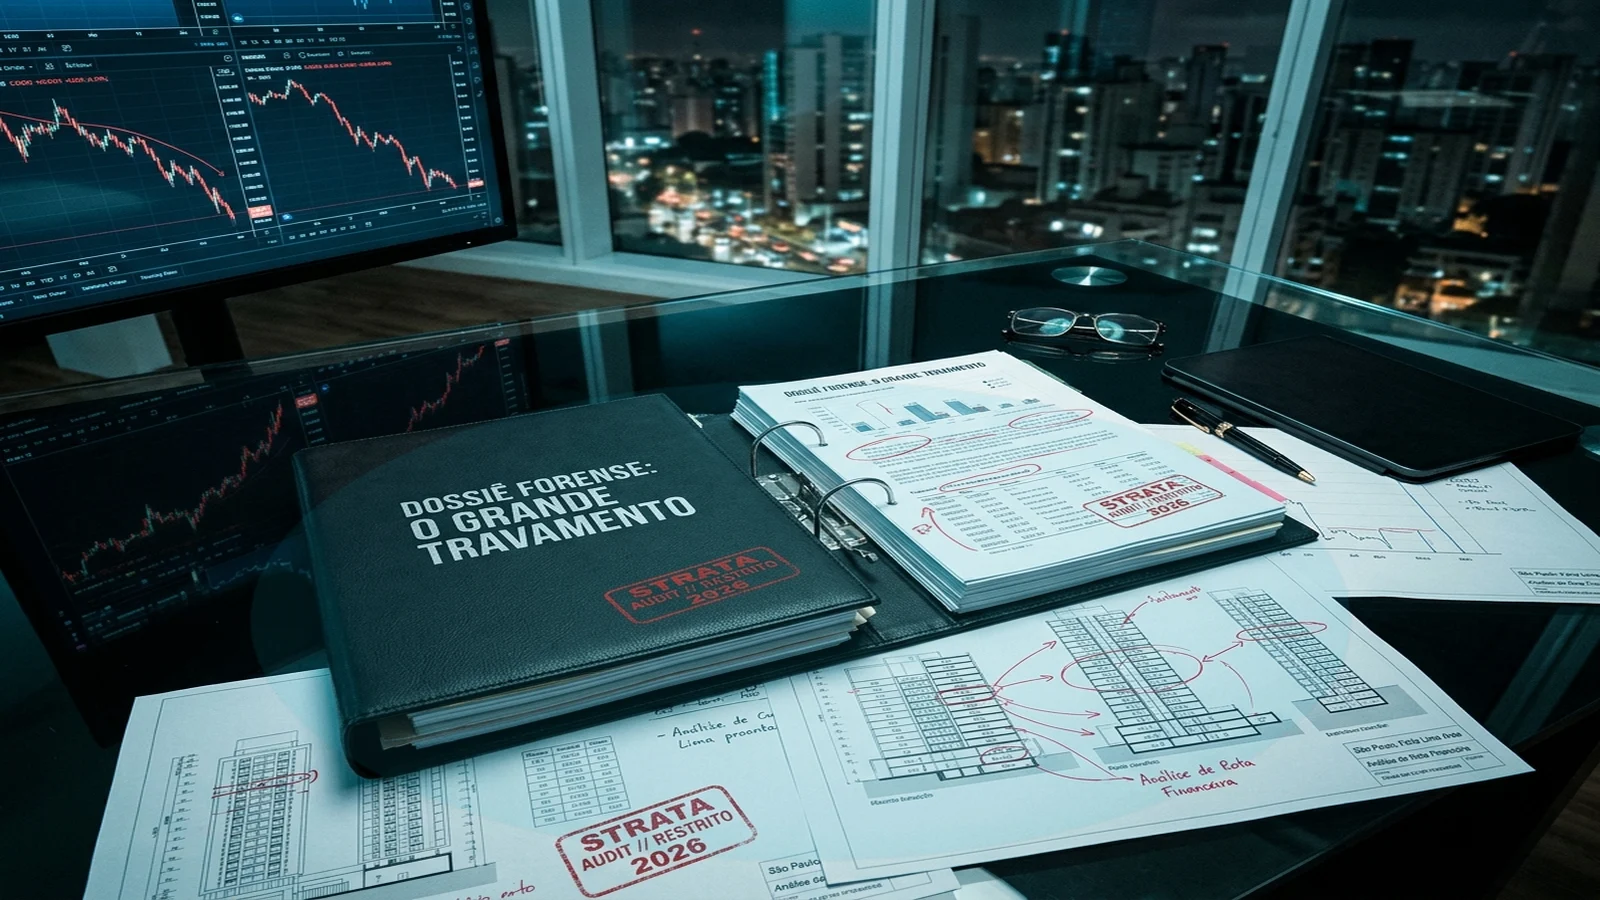
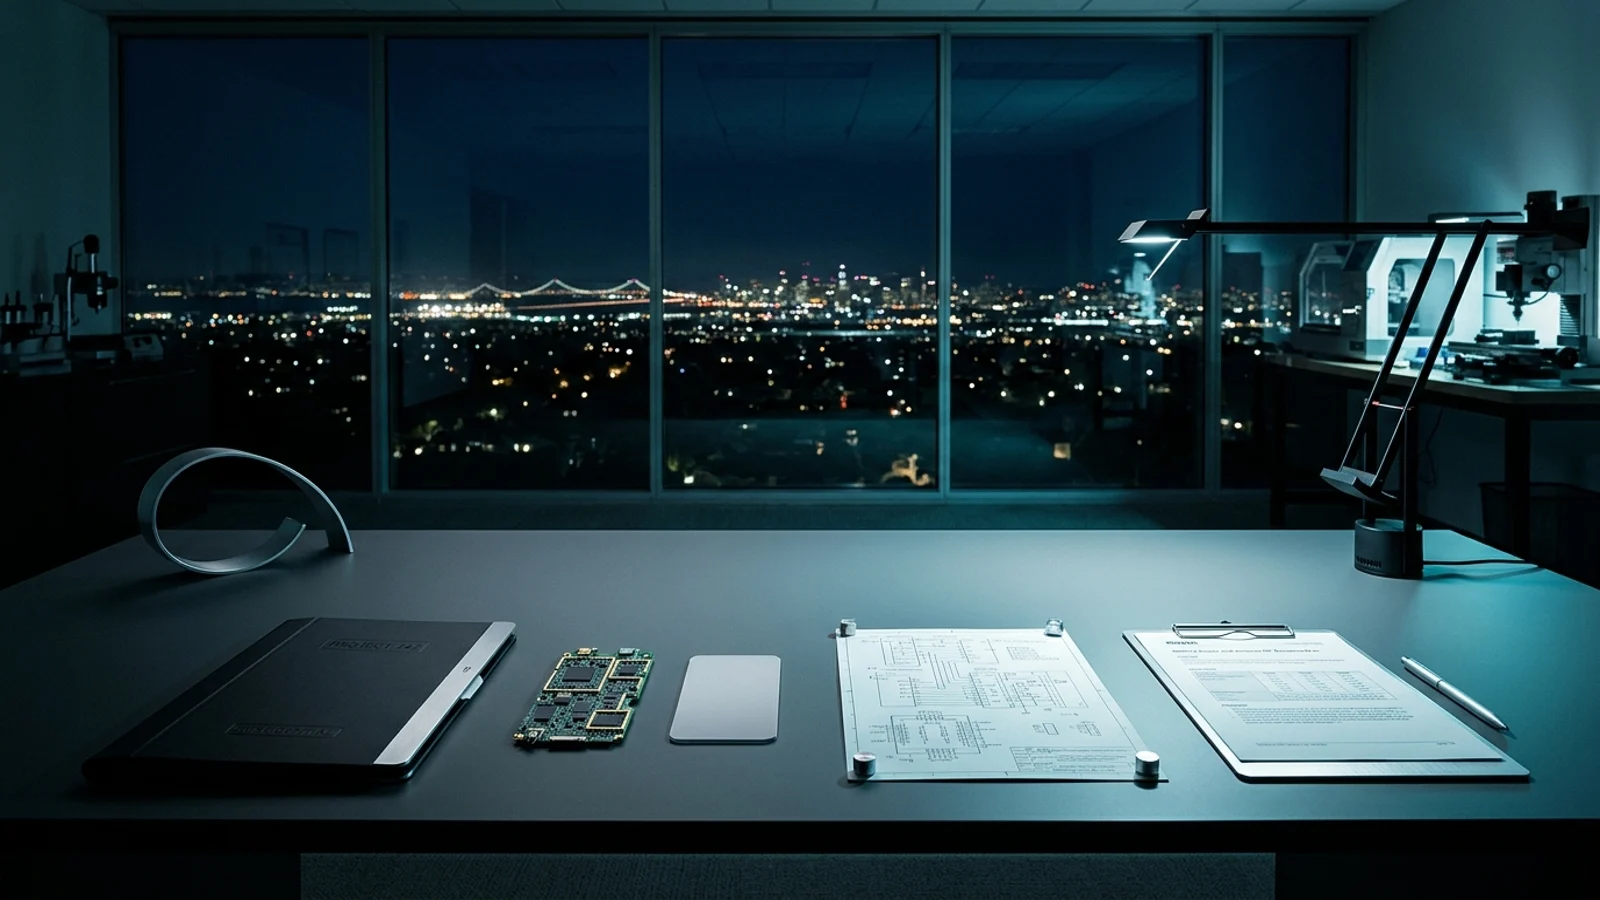
fix(investigation-3d): replace 2D shapes in Turing/Jobs with photorealistic 3D scenes, remove duplicate Stage 2 pills, add high-contrast line badge, show Stage 4 dilemma prompt, and unify z-50 header

diff --git a/src/components/investigation/CrossExamination3DStage.tsx b/src/components/investigation/CrossExamination3DStage.tsx
@@ -98,7 +98,7 @@ export const CrossExamination3DStage: React.FC<CrossExamination3DStageProps> = (
     const t = setTimeout(() => {
       setCamRotX(0);
       setCamRotY(0);
-      setCamScale(1.03);
+      setCamScale(1.06);
     }, 60);
     return () => clearTimeout(t);
   }, [selectedCase.id]);
@@ -186,7 +186,7 @@ export const CrossExamination3DStage: React.FC<CrossExamination3DStageProps> = (
       onPointerDown={handlePointerDown}
       onPointerMove={handlePointerMove}
       onPointerUp={handlePointerUp}
-      className="fixed inset-0 z-40 w-screen h-[100dvh] overflow-hidden bg-[#04060B] select-none font-sans flex flex-col justify-between"
+      className="fixed inset-0 z-50 w-screen h-[100dvh] overflow-hidden bg-[#04060B] select-none font-sans flex flex-col justify-between"
       style={{ perspective: '1300px' }}
     >
       {/* =====================================================================
@@ -397,18 +397,10 @@ export const CrossExamination3DStage: React.FC<CrossExamination3DStageProps> = (
           })()}
         </svg>
 
-        {/* Micro-rótulos de Telemetria nos Feixes */}
-        <div
-          style={{ left: '31%', top: '46%', transform: 'rotate(-14deg)' }}
-          className="hidden sm:block absolute z-30 pointer-events-none text-[8px] font-mono uppercase tracking-[0.22em] text-amber-200/85 drop-shadow-[0_0_6px_rgba(251,191,36,0.9)]"
-        >
-          VÍNCULO TÁTICO // {eraTheme.eraName.toUpperCase()}
-        </div>
-        <div
-          style={{ left: '46%', top: '42%', transform: 'rotate(-4deg)' }}
-          className="hidden sm:block absolute z-30 pointer-events-none text-[8px] font-mono uppercase tracking-[0.22em] text-cyan-200/85 drop-shadow-[0_0_6px_rgba(34,211,238,0.9)]"
-        >
-          CRUZAMENTO FORENSE DE EVIDÊNCIAS
+        {/* Badge Horizontal de Alto Contraste sobre a Linha de Conexão (Fix #3) */}
+        <div className="hidden sm:flex absolute left-1/2 -translate-x-1/2 top-[29%] z-30 pointer-events-none items-center gap-2 bg-[#060A12]/90 text-amber-300 px-3.5 py-1 rounded-full border border-amber-500/40 shadow-lg text-[10px] font-mono uppercase tracking-wider">
+          <span className="w-2 h-2 rounded-full bg-amber-400 animate-pulse" />
+          <span>VÍNCULO TÁTICO // {eraTheme.eraName.toUpperCase()}</span>
         </div>
 
         {/* ===================================================================
@@ -526,29 +518,7 @@ export const CrossExamination3DStage: React.FC<CrossExamination3DStageProps> = (
                 />
               </button>
 
-              {/* Plaqueta Discreta na Borda da Mesa (PAPIRI-01 / DOC-01 / etc.) */}
-              <button
-                type="button"
-                onClick={() => {
-                  if (clue) {
-                    soundEngine.playClueSaved();
-                    onToggleBoardClue(clue.id);
-                  }
-                }}
-                style={{
-                  left: spot.labelLeft,
-                  bottom: spot.labelBottom,
-                }}
-                className={`absolute z-30 -translate-x-1/2 px-3 py-1 rounded backdrop-blur-md border font-mono text-xs sm:text-sm tracking-wider transition-all cursor-pointer shadow-[0_4px_14px_rgba(0,0,0,0.85)] ${
-                  isSelected
-                    ? 'bg-amber-500/35 border-amber-300 text-amber-100 font-bold scale-105 shadow-[0_0_18px_rgba(245,158,11,0.45)]'
-                    : isPartOfSolved
-                    ? 'bg-emerald-950/60 border-emerald-400/60 text-emerald-200'
-                    : 'bg-[#0b1320]/65 border-slate-500/50 text-slate-200 hover:border-amber-400/70 hover:text-white'
-                }`}
-              >
-                {spot.tag}
-              </button>
+
             </React.Fragment>
           );
         })}
@@ -563,17 +533,10 @@ export const CrossExamination3DStage: React.FC<CrossExamination3DStageProps> = (
       >
         <div className="flex flex-wrap items-start justify-between gap-2">
           <div className="pointer-events-auto flex flex-col items-start gap-1.5 max-w-full">
-            <div className="flex flex-wrap items-center gap-2">
-              <h1 className="font-sans text-xs sm:text-base font-bold uppercase tracking-wide text-amber-100 drop-shadow-[0_2px_8px_rgba(0,0,0,0.95)] truncate max-w-[92vw] sm:max-w-none">
-                {caseShortHeader}{' '}
-                <span className="text-amber-300/90 font-semibold">
-                  ({selectedCase.name.toUpperCase()})
-                </span>
+            <div className="px-3.5 py-1.5 rounded-lg bg-[#080C14]/85 backdrop-blur-md border border-amber-500/30 shadow-lg flex flex-wrap items-center gap-2.5">
+              <h1 className="font-serif text-xs sm:text-base lg:text-lg font-bold tracking-wide text-[#EAD29C] uppercase truncate max-w-[88vw] sm:max-w-none">
+                {caseShortHeader} ({selectedCase.name.toUpperCase()})
               </h1>
-              <span className="hidden lg:inline-flex items-center gap-1 px-2 py-0.5 rounded bg-[#090D16]/75 border border-amber-400/35 text-[10px] font-mono text-amber-200">
-                <Eye className="w-3 h-3 text-amber-400" />
-                <span>Câmera: Vista Superior (Top-Down)</span>
-              </span>
             </div>
 
             <div className="flex flex-wrap items-center gap-1.5">
@@ -819,7 +782,7 @@ export const CrossExamination3DStage: React.FC<CrossExamination3DStageProps> = (
                 setIsAutoOrbiting(false);
                 setCamRotX(0);
                 setCamRotY(0);
-                setCamScale(1.03);
+                setCamScale(1.06);
               }}
               className="ml-1 text-slate-400 hover:text-white cursor-pointer"
               title="Centralizar Vista Top-Down"

diff --git a/src/components/investigation/FieldSimulation3DStage.tsx b/src/components/investigation/FieldSimulation3DStage.tsx
@@ -126,7 +126,7 @@ export const FieldSimulation3DStage: React.FC<FieldSimulation3DStageProps> = ({
       onPointerDown={handlePointerDown}
       onPointerMove={handlePointerMove}
       onPointerUp={handlePointerUp}
-      className="fixed inset-0 z-40 w-screen h-[100dvh] overflow-hidden bg-[#04060B] select-none font-sans flex flex-col justify-between"
+      className="fixed inset-0 z-50 w-screen h-[100dvh] overflow-hidden bg-[#04060B] select-none font-sans flex flex-col justify-between"
       style={{ perspective: '1300px' }}
     >
       {/* 1. CENÁRIO 3D REALISTA DE FUNDO (SIMULAÇÃO DE CAMPO HISTÓRICA) */}
@@ -142,7 +142,7 @@ export const FieldSimulation3DStage: React.FC<FieldSimulation3DStageProps> = ({
           alt="Simulação de Campo Histórica 3D"
           draggable={false}
           className="w-full h-full object-cover object-center select-none pointer-events-none transition-all duration-500"
-          style={{ filter: 'brightness(0.42) contrast(1.22) saturate(0.88)' }}
+          style={{ filter: 'brightness(0.62) contrast(1.14) saturate(0.95)' }}
         />
         <div
           className="absolute inset-0 pointer-events-none"
@@ -193,12 +193,11 @@ export const FieldSimulation3DStage: React.FC<FieldSimulation3DStageProps> = ({
       >
         <div className="flex flex-wrap items-start justify-between gap-2">
           <div className="pointer-events-auto flex flex-col items-start gap-1.5 max-w-full">
-            <h1 className="font-sans text-xs sm:text-base font-bold uppercase tracking-wide text-amber-100 drop-shadow-[0_2px_8px_rgba(0,0,0,0.95)] truncate max-w-[92vw] sm:max-w-none">
-              {caseShortHeader}{' '}
-              <span className="text-amber-300/90 font-semibold">
-                ({selectedCase.name.toUpperCase()})
-              </span>
-            </h1>
+            <div className="px-3.5 py-1.5 rounded-lg bg-[#080C14]/85 backdrop-blur-md border border-amber-500/30 shadow-lg">
+              <h1 className="font-serif text-xs sm:text-base lg:text-lg font-bold tracking-wide text-[#EAD29C] uppercase truncate max-w-[88vw] sm:max-w-none">
+                {caseShortHeader} ({selectedCase.name.toUpperCase()})
+              </h1>
+            </div>
 
             <div className="flex flex-wrap items-center gap-1.5">
               <button
@@ -319,17 +318,20 @@ export const FieldSimulation3DStage: React.FC<FieldSimulation3DStageProps> = ({
         data-hud="true"
         className="relative z-30 flex-1 w-full max-w-5xl mx-auto px-3 sm:px-6 flex flex-col justify-center gap-3 overflow-hidden"
       >
-        <div className="px-3.5 py-2 rounded-xl bg-[#0b1320]/45 backdrop-blur-sm border border-amber-400/35 flex flex-wrap items-center justify-between gap-2">
-          <div>
+        <div className="px-4 py-3 rounded-xl bg-[#0b1320]/65 backdrop-blur-md border border-amber-400/40 flex flex-wrap items-start justify-between gap-3 shadow-lg">
+          <div className="max-w-3xl">
             <span className="text-[10px] font-mono uppercase tracking-widest text-amber-300 font-bold block">
-              DILEMA ESTRATÉGICO DE CAMPO
+              DILEMA ESTRATÉGICO DE CAMPO // {eraTheme.eraName.toUpperCase()}
             </span>
-            <h2 className="text-xs sm:text-base font-sans font-bold text-white">
+            <h2 className="text-sm sm:text-lg font-sans font-bold text-white mt-0.5">
               Diante do padrão identificado, qual ordem tática você assina?
             </h2>
+            <p className="text-slate-300 text-xs sm:text-sm mt-1 mb-1 leading-relaxed">
+              {selectedCase.simulationPrompt}
+            </p>
           </div>
           {selectedDecisionId && (
-            <span className="px-2.5 py-1 rounded bg-amber-400 text-slate-950 font-mono text-[10px] font-bold uppercase flex items-center gap-1">
+            <span className="px-2.5 py-1 rounded bg-amber-400 text-slate-950 font-mono text-[10px] font-bold uppercase flex items-center gap-1 shrink-0">
               <Check className="w-3 h-3 stroke-[3]" /> DECISÃO REGISTRADA
             </span>
           )}
@@ -369,11 +371,11 @@ export const FieldSimulation3DStage: React.FC<FieldSimulation3DStageProps> = ({
                   <div className="text-xs sm:text-sm font-sans font-bold text-white leading-snug">
                     {choice.title}
                   </div>
-                  <div className="text-[11px] font-mono text-cyan-200/90 line-clamp-1">
+                  <div className="text-xs font-mono text-cyan-200/95 leading-snug">
                     {choice.subtitle}
                   </div>
                   {isExpanded && (
-                    <p className="text-[11px] text-slate-200 leading-relaxed pt-1.5 border-t border-white/10 line-clamp-3">
+                    <p className="text-xs text-slate-200 leading-relaxed pt-2 border-t border-white/10">
                       {choice.description}
                     </p>
                   )}

diff --git a/src/utils/era3DTheme.ts b/src/utils/era3DTheme.ts
@@ -372,50 +372,50 @@ export const getEra3DTheme = (caseId: string): Era3DTheme => {
             tag: 'TOP-SECRET-01',
             eraLabel: 'Dossiê Militar Ultra // 1941',
             left: '4%',
-            top: '48%',
-            width: '24%',
-            height: '40%',
-            pinX: 16,
-            pinY: 69,
-            labelLeft: '17%',
+            top: '44%',
+            width: '21%',
+            height: '38%',
+            pinX: 15,
+            pinY: 62,
+            labelLeft: '15%',
             labelBottom: '12%',
           },
           {
             idx: 1,
             tag: 'ENIGMA-02',
             eraLabel: 'Rotores Mecânicos Enigma & Decifração',
-            left: '29%',
-            top: '38%',
-            width: '25%',
-            height: '44%',
-            pinX: 44,
-            pinY: 59,
-            labelLeft: '43%',
+            left: '28%',
+            top: '44%',
+            width: '21%',
+            height: '38%',
+            pinX: 39,
+            pinY: 60,
+            labelLeft: '39%',
             labelBottom: '12%',
           },
           {
             idx: 2,
             tag: 'CIRCUITO-03',
             eraLabel: 'Diagrama de Circuitos Bombe Drum',
-            left: '55%',
-            top: '22%',
-            width: '26%',
-            height: '45%',
-            pinX: 69,
-            pinY: 44,
-            labelLeft: '67%',
+            left: '52%',
+            top: '44%',
+            width: '21%',
+            height: '38%',
+            pinX: 63,
+            pinY: 56,
+            labelLeft: '63%',
             labelBottom: '12%',
           },
           {
             idx: 3,
             tag: 'MATRIZ-04',
             eraLabel: 'Matriz de Código & Distribuição',
-            left: '64%',
-            top: '52%',
-            width: '26%',
-            height: '36%',
-            pinX: 78,
-            pinY: 71,
+            left: '75%',
+            top: '44%',
+            width: '21%',
+            height: '38%',
+            pinX: 85,
+            pinY: 62,
             labelLeft: '86%',
             labelBottom: '12%',
           },
@@ -431,7 +431,7 @@ export const getEra3DTheme = (caseId: string): Era3DTheme => {
         stage1Bg: '/dossiers/jobs_stage1_3d_clean.webp',
         stage2TopDownBg: '/dossiers/jobs_topdown_3d_clean.webp',
         stage3FolderBg: '/dossiers/forensic_analysis_room_3d_clean.webp',
-        stage4SimulationBg: '/dossiers/jobs_topdown_3d_clean.webp',
+        stage4SimulationBg: '/dossiers/jobs_stage1_3d_clean.webp',
         primaryAccentHex: '#22d3ee',
         secondaryAccentHex: '#cbd5e1',
         ambientGlowCss:

diff --git a/src/components/investigation/ForensicAnalysis3DStage.tsx b/src/components/investigation/ForensicAnalysis3DStage.tsx
@@ -173,7 +173,7 @@ export const ForensicAnalysis3DStage: React.FC<ForensicAnalysis3DStageProps> = (
       onPointerDown={handlePointerDown}
       onPointerMove={handlePointerMove}
       onPointerUp={handlePointerUp}
-      className="fixed inset-0 z-40 w-screen h-[100dvh] overflow-hidden bg-[#04060B] select-none font-sans flex flex-col justify-between"
+      className="fixed inset-0 z-50 w-screen h-[100dvh] overflow-hidden bg-[#04060B] select-none font-sans flex flex-col justify-between"
       style={{ perspective: '1300px' }}
     >
       {/* 1. CENÁRIO 3D REALISTA DE FUNDO (SALA DE ANÁLISE & PASTA PERICIAL) */}
@@ -220,12 +220,11 @@ export const ForensicAnalysis3DStage: React.FC<ForensicAnalysis3DStageProps> = (
       >
         <div className="flex flex-wrap items-start justify-between gap-2">
           <div className="pointer-events-auto flex flex-col items-start gap-1.5 max-w-full">
-            <h1 className="font-sans text-xs sm:text-base font-bold uppercase tracking-wide text-amber-100 drop-shadow-[0_2px_8px_rgba(0,0,0,0.95)] truncate max-w-[92vw] sm:max-w-none">
-              {caseShortHeader}{' '}
-              <span className="text-amber-300/90 font-semibold">
-                ({selectedCase.name.toUpperCase()})
-              </span>
-            </h1>
+            <div className="px-3.5 py-1.5 rounded-lg bg-[#080C14]/85 backdrop-blur-md border border-amber-500/30 shadow-lg">
+              <h1 className="font-serif text-xs sm:text-base lg:text-lg font-bold tracking-wide text-[#EAD29C] uppercase truncate max-w-[88vw] sm:max-w-none">
+                {caseShortHeader} ({selectedCase.name.toUpperCase()})
+              </h1>
+            </div>
 
             <div className="flex flex-wrap items-center gap-1.5">
               <button
@@ -368,7 +367,7 @@ export const ForensicAnalysis3DStage: React.FC<ForensicAnalysis3DStageProps> = (
         <div className="px-3.5 py-2 rounded-xl bg-[#0b1320]/45 backdrop-blur-sm border border-amber-400/35 flex flex-wrap items-center justify-between gap-2">
           <div className="flex items-center gap-2">
             <span className="text-[10px] font-mono uppercase tracking-widest text-amber-300 font-bold">
-              PASTA PERICIAL //
+              PASTA PERICIAL ({selectedCase.location.toUpperCase()} • {selectedCase.year}) //
             </span>
             <span className="text-xs sm:text-sm font-sans font-bold text-white">
               Qual interpretação explica melhor o caso investigado?

diff --git a/src/components/investigation/AuditReport3DStage.tsx b/src/components/investigation/AuditReport3DStage.tsx
@@ -150,7 +150,7 @@ export const AuditReport3DStage: React.FC<AuditReport3DStageProps> = ({
       onPointerDown={handlePointerDown}
       onPointerMove={handlePointerMove}
       onPointerUp={handlePointerUp}
-      className="fixed inset-0 z-40 w-screen h-[100dvh] overflow-hidden bg-[#04060B] select-none font-sans flex flex-col justify-between"
+      className="fixed inset-0 z-50 w-screen h-[100dvh] overflow-hidden bg-[#04060B] select-none font-sans flex flex-col justify-between"
       style={{ perspective: '1300px' }}
     >
       {/* 1. CENÁRIO 3D REALISTA DE FUNDO (CÂMARA DE AUDITORIA HISTÓRICA) */}
@@ -191,12 +191,11 @@ export const AuditReport3DStage: React.FC<AuditReport3DStageProps> = ({
       >
         <div className="flex flex-wrap items-start justify-between gap-2">
           <div className="pointer-events-auto flex flex-col items-start gap-1.5 max-w-full">
-            <h1 className="font-sans text-xs sm:text-base font-bold uppercase tracking-wide text-amber-100 drop-shadow-[0_2px_8px_rgba(0,0,0,0.95)] truncate max-w-[92vw] sm:max-w-none">
-              {caseShortHeader}{' '}
-              <span className="text-amber-300/90 font-semibold">
-                ({selectedCase.name.toUpperCase()})
-              </span>
-            </h1>
+            <div className="px-3.5 py-1.5 rounded-lg bg-[#080C14]/85 backdrop-blur-md border border-amber-500/30 shadow-lg">
+              <h1 className="font-serif text-xs sm:text-base lg:text-lg font-bold tracking-wide text-[#EAD29C] uppercase truncate max-w-[88vw] sm:max-w-none">
+                {caseShortHeader} ({selectedCase.name.toUpperCase()})
+              </h1>
+            </div>
 
             <div className="relative">
               <button

diff --git a/src/components/investigation/ArchiveRoom3DStage.tsx b/src/components/investigation/ArchiveRoom3DStage.tsx
@@ -322,7 +322,7 @@ export const ArchiveRoom3DStage: React.FC<ArchiveRoom3DStageProps> = ({
 
   return (
     <div
-      className="fixed inset-0 z-40 w-screen h-[100dvh] bg-[#04060B] overflow-hidden select-none font-sans flex flex-col justify-between"
+      className="fixed inset-0 z-50 w-screen h-[100dvh] bg-[#04060B] overflow-hidden select-none font-sans flex flex-col justify-between"
       onPointerDown={handlePointerDown}
       onPointerMove={handlePointerMove}
       onPointerUp={handlePointerUp}
